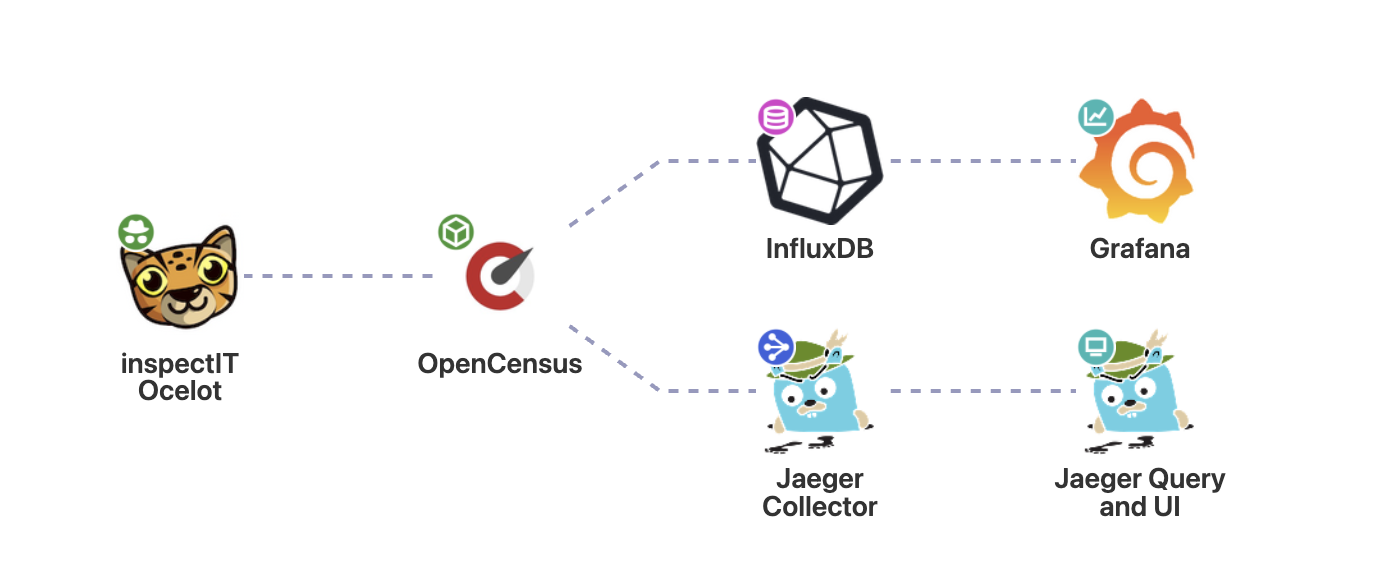
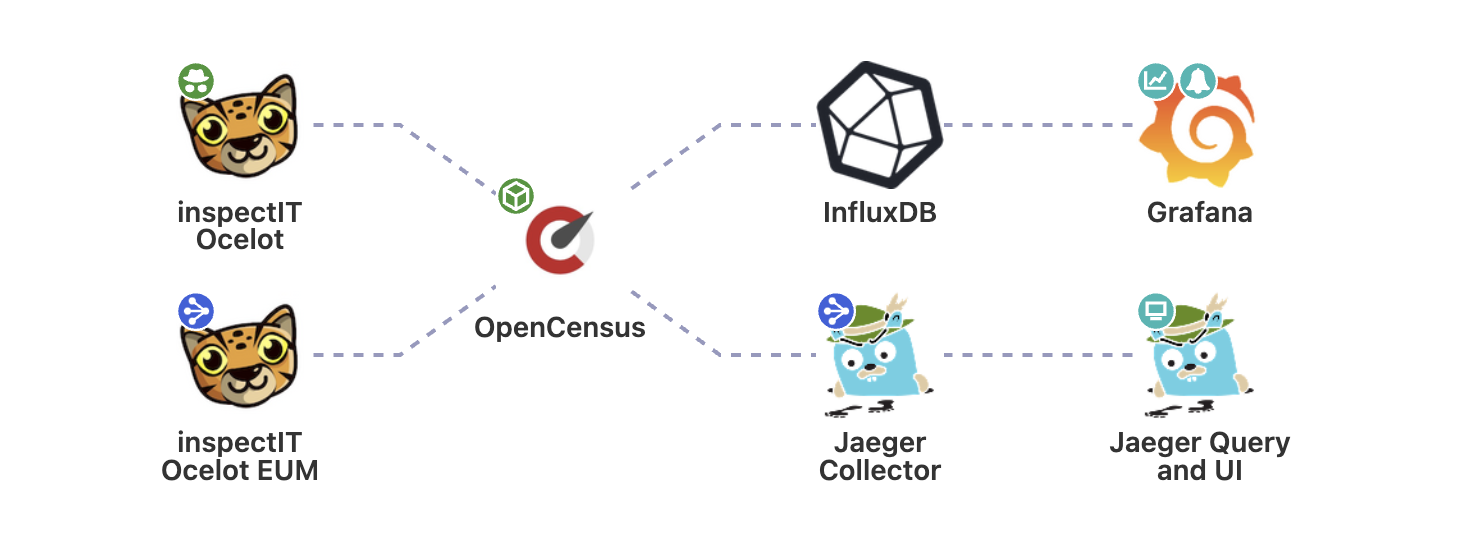
Updated to demo pictures and links

diff --git a/inspectit-ocelot-documentation/docs/getting-started/docker-examples.md b/inspectit-ocelot-documentation/docs/getting-started/docker-examples.md
@@ -19,7 +19,7 @@ Traces are exported to Jaeger.
 [See section below for detailed information](#prometheus-and-jaeger-scenario).
 
 * File: `docker-compose-prometheus-jaeger.yml`
-* [OpenAPM Landscape](https://openapm.io/landscape?agent=inspectit-ocelot-agent&instrumentation-lib=opencensus&collector=prometheus-server,jaeger-collector&visualization=jaeger-query&dashboarding=grafana&usedges=inspectit-ocelot-agent:prometheus-server,inspectit-ocelot-agent:jaeger-collector,jaeger-query:grafana&showCommercial=false&showFormats=false)
+* [OpenAPM Landscape](https://openapm.io/landscape?agent=inspectit-ocelot-agent&instrumentation-lib=opencensus&collector=prometheus-server,jaeger-collector,inspectit-oce-eum-server&visualization=jaeger-query&dashboarding=grafana&usedges=inspectit-ocelot-agent:prometheus-server,inspectit-ocelot-agent:jaeger-collector,jaeger-query:grafana,inspectit-oce-eum-server:prometheus-server,inspectit-oce-eum-server:jaeger-collector&showCommercial=false&showFormats=false)
 
 ![Demo scenario using Prometheus and Jaeger](assets/demo-landscape-prometheus-jaeger.png)
 
@@ -30,7 +30,7 @@ Traces are exported to Jaeger.
 [See section below for detailed information](#influxdb-and-jaeger-scenario).
 
 * File: `docker-compose-influxdb-jaeger.yml`
-* [OpenAPM Landscape](https://openapm.io/landscape?agent=inspectit-ocelot-agent&instrumentation-lib=opencensus&collector=jaeger-collector&storage=influx-db&visualization=jaeger-query&dashboarding=grafana&alerting=grafana&usedges=jaeger-query:grafana,inspectit-ocelot-agent:influx-db,inspectit-ocelot-agent:jaeger-collector&showCommercial=false&showFormats=false)
+* [OpenAPM Landscape](https://openapm.io/landscape?agent=inspectit-ocelot-agent&instrumentation-lib=opencensus&collector=jaeger-collector,inspectit-oce-eum-server&storage=influx-db&visualization=jaeger-query&dashboarding=grafana&alerting=grafana&usedges=jaeger-query:grafana,inspectit-ocelot-agent:influx-db,inspectit-ocelot-agent:jaeger-collector,inspectit-ocelot-agent:influxdata-influxdb,inspectit-oce-eum-server:influxdata-influxdb,inspectit-oce-eum-server:jaeger-collector&showCommercial=false&showFormats=false)
 
 ![Demo scenario using InfluxDB and Zipkin](assets/demo-landscape-influxdb-jaeger.png)
 
@@ -41,7 +41,7 @@ Traces are exported to Zipkin.
 [See section below for detailed information](#influxdb-and-zipkin-scenario).
 
 * File: `docker-compose-influxdb-zipkin.yml`
-* [OpenAPM Landscape](https://openapm.io/landscape?agent=inspectit-ocelot-agent&instrumentation-lib=opencensus&collector=zipkin-server&storage=influx-db&visualization=zipkin-server&dashboarding=grafana&alerting=grafana&usedges=inspectit-ocelot-agent:influx-db,inspectit-ocelot-agent:zipkin-server&showCommercial=false&showFormats=false)
+* [OpenAPM Landscape](https://openapm.io/landscape?agent=inspectit-ocelot-agent&instrumentation-lib=opencensus&collector=zipkin-server,inspectit-oce-eum-server&storage=influx-db&visualization=zipkin-server&dashboarding=grafana&alerting=grafana&usedges=inspectit-ocelot-agent:influx-db,inspectit-ocelot-agent:zipkin-server,inspectit-ocelot-agent:influxdata-influxdb,inspectit-oce-eum-server:influxdata-influxdb,inspectit-oce-eum-server:zipkin-server&showCommercial=false&showFormats=false)
 
 ![Demo scenario using InfluxDB and Zipkin](assets/demo-landscape-influxdb-zipkin.png)
 
@@ -171,8 +171,8 @@ The InfluxDB and Prometheus demo scenarios include the following predefined Graf
 ### End User Monitoring
 | Name | Description | Screenshot |
 | ---------- | ------- | -------- |
-| Beacons  | Shows metrics for the number of processed beacons and their average processing times | ![](assets/demo-dashboard-servicegraph_small.png) |
-| Trace Controller | Shows metrics for the number of processed traces, the number of spans and the average processing times for the traces| ![](assets/demo-dashboard-http_small.png) |
+| Beacons  | Shows metrics for the number of processed beacons and their average processing times | ![](assets/demo-dashboard-beacons_small.png) |
+| Trace Controller | Shows metrics for the number of processed traces, the number of spans and the average processing times for the traces| ![](assets/demo-dashboard-trace-controller.png) |
 
 ## Changing Agent Configurations
 
